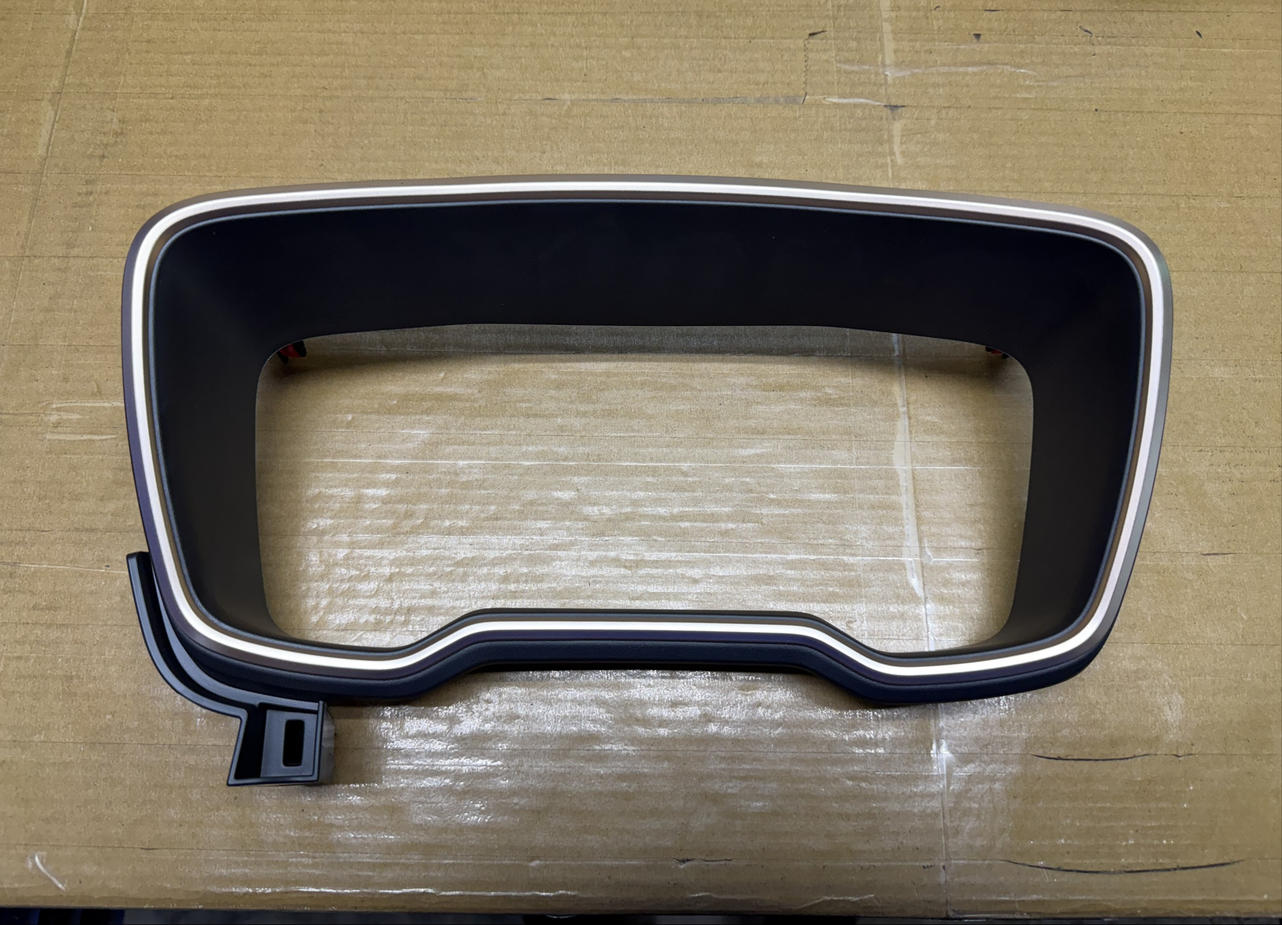
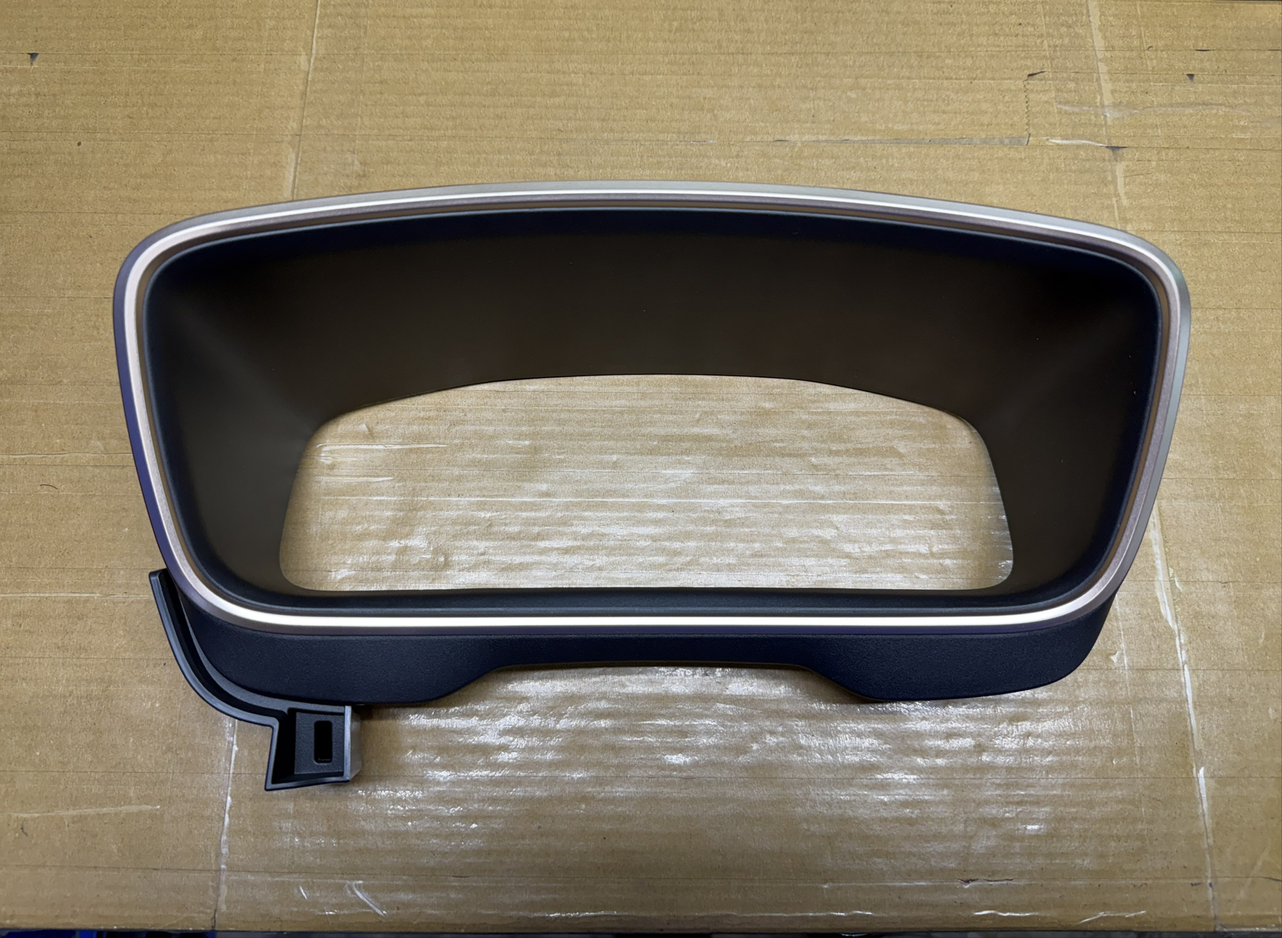
Update product photos

diff --git a/skills/frontend-design/SKILL.md b/skills/frontend-design/SKILL.md
@@ -1,0 +1,42 @@
+---
+name: frontend-design
+description: Create distinctive, production-grade frontend interfaces with high design quality. Use this skill when the user asks to build web components, pages, or applications. Generates creative, polished code that avoids generic AI aesthetics.
+license: Complete terms in LICENSE.txt
+---
+
+This skill guides creation of distinctive, production-grade frontend interfaces that avoid generic "AI slop" aesthetics. Implement real working code with exceptional attention to aesthetic details and creative choices.
+
+The user provides frontend requirements: a component, page, application, or interface to build. They may include context about the purpose, audience, or technical constraints.
+
+## Design Thinking
+
+Before coding, understand the context and commit to a BOLD aesthetic direction:
+- **Purpose**: What problem does this interface solve? Who uses it?
+- **Tone**: Pick an extreme: brutally minimal, maximalist chaos, retro-futuristic, organic/natural, luxury/refined, playful/toy-like, editorial/magazine, brutalist/raw, art deco/geometric, soft/pastel, industrial/utilitarian, etc. There are so many flavors to choose from. Use these for inspiration but design one that is true to the aesthetic direction.
+- **Constraints**: Technical requirements (framework, performance, accessibility).
+- **Differentiation**: What makes this UNFORGETTABLE? What's the one thing someone will remember?
+
+**CRITICAL**: Choose a clear conceptual direction and execute it with precision. Bold maximalism and refined minimalism both work - the key is intentionality, not intensity.
+
+Then implement working code (HTML/CSS/JS, React, Vue, etc.) that is:
+- Production-grade and functional
+- Visually striking and memorable
+- Cohesive with a clear aesthetic point-of-view
+- Meticulously refined in every detail
+
+## Frontend Aesthetics Guidelines
+
+Focus on:
+- **Typography**: Choose fonts that are beautiful, unique, and interesting. Avoid generic fonts like Arial and Inter; opt instead for distinctive choices that elevate the frontend's aesthetics; unexpected, characterful font choices. Pair a distinctive display font with a refined body font.
+- **Color & Theme**: Commit to a cohesive aesthetic. Use CSS variables for consistency. Dominant colors with sharp accents outperform timid, evenly-distributed palettes.
+- **Motion**: Use animations for effects and micro-interactions. Prioritize CSS-only solutions for HTML. Use Motion library for React when available. Focus on high-impact moments: one well-orchestrated page load with staggered reveals (animation-delay) creates more delight than scattered micro-interactions. Use scroll-triggering and hover states that surprise.
+- **Spatial Composition**: Unexpected layouts. Asymmetry. Overlap. Diagonal flow. Grid-breaking elements. Generous negative space OR controlled density.
+- **Backgrounds & Visual Details**: Create atmosphere and depth rather than defaulting to solid colors. Add contextual effects and textures that match the overall aesthetic. Apply creative forms like gradient meshes, noise textures, geometric patterns, layered transparencies, dramatic shadows, decorative borders, custom cursors, and grain overlays.
+
+NEVER use generic AI-generated aesthetics like overused font families (Inter, Roboto, Arial, system fonts), cliched color schemes (particularly purple gradients on white backgrounds), predictable layouts and component patterns, and cookie-cutter design that lacks context-specific character.
+
+Interpret creatively and make unexpected choices that feel genuinely designed for the context. No design should be the same. Vary between light and dark themes, different fonts, different aesthetics. NEVER converge on common choices (Space Grotesk, for example) across generations.
+
+**IMPORTANT**: Match implementation complexity to the aesthetic vision. Maximalist designs need elaborate code with extensive animations and effects. Minimalist or refined designs need restraint, precision, and careful attention to spacing, typography, and subtle details. Elegance comes from executing the vision well.
+
+Remember: Claude is capable of extraordinary creative work. Don't hold back, show what can truly be created when thinking outside the box and committing fully to a distinctive vision.
